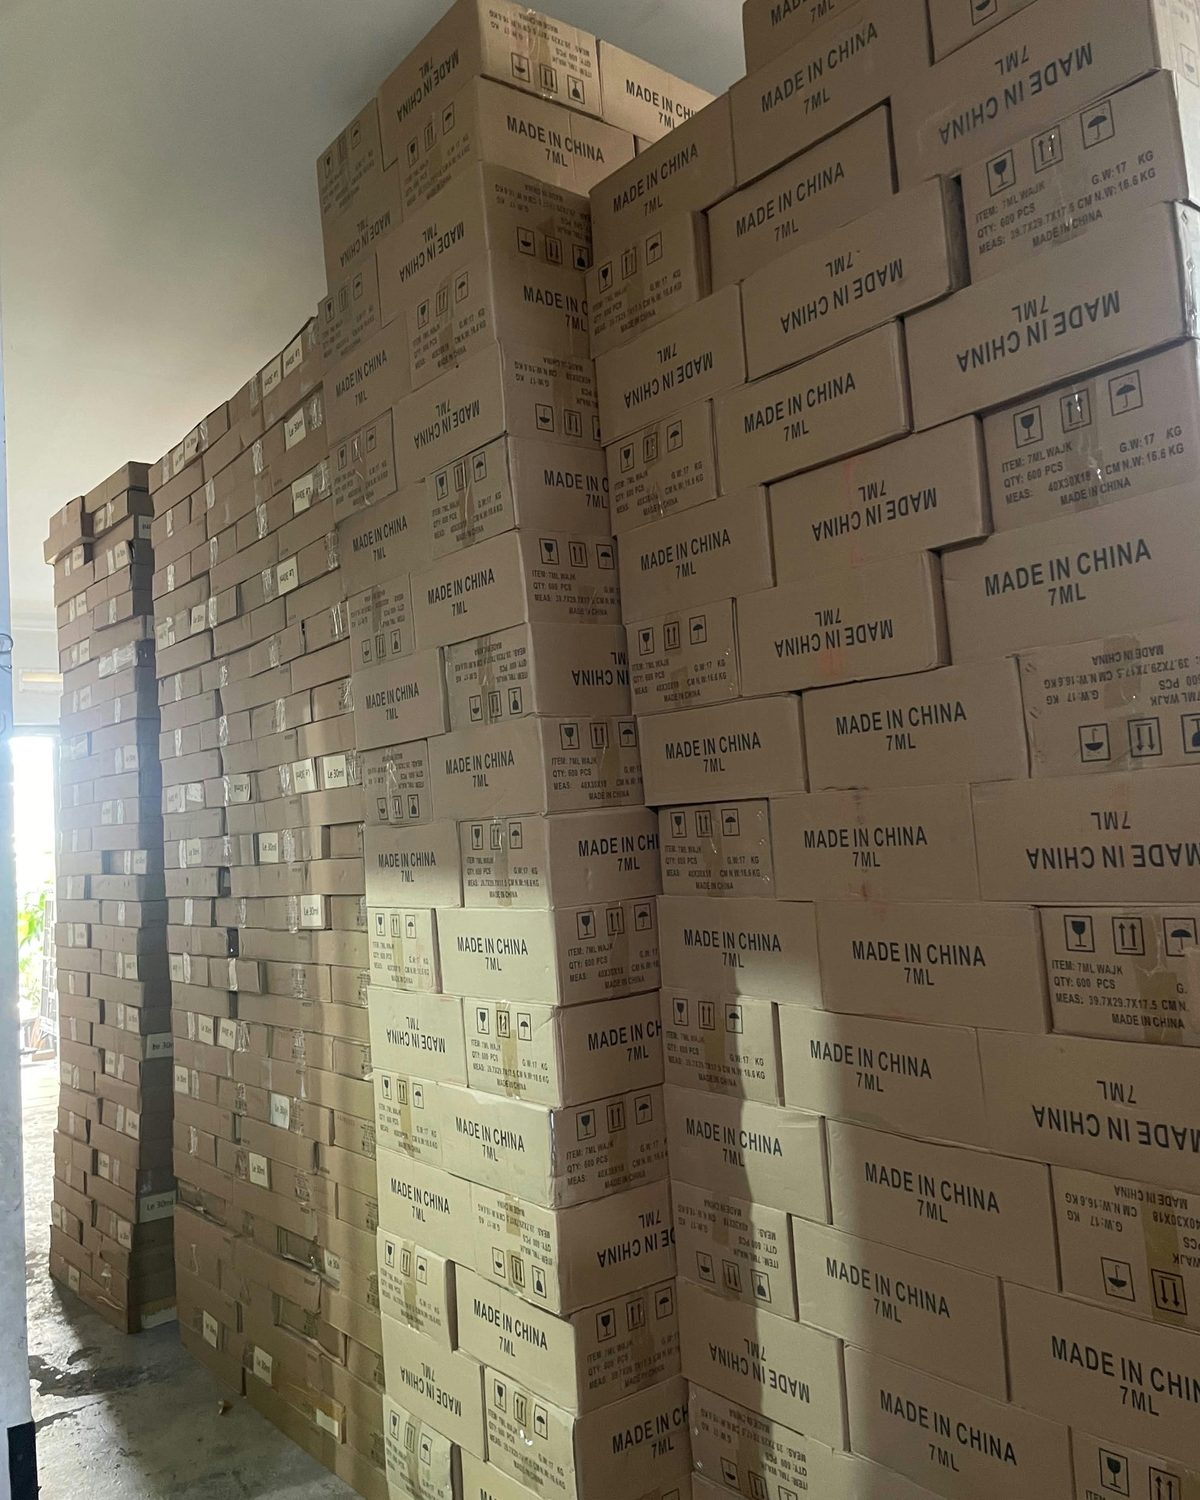
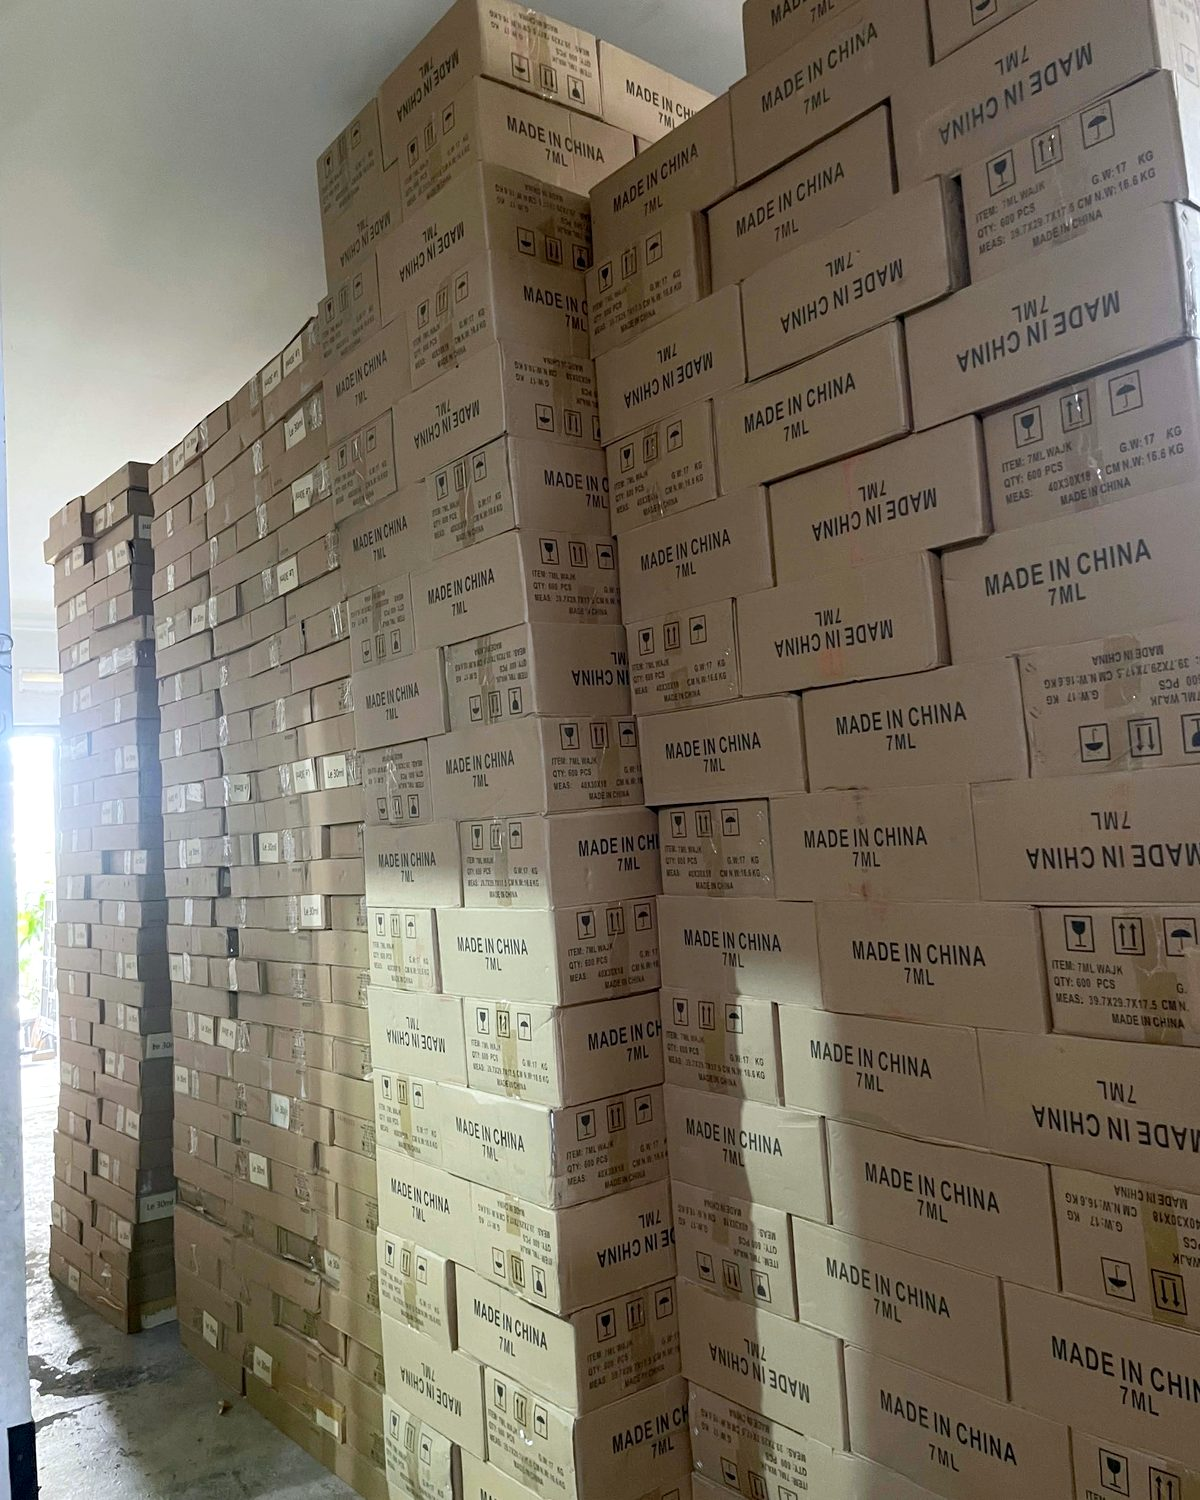
Warehouse photos: natural colour, shown inside 'Why Gita'
Re-colour the warehouse photos in the files (white balance, lifted shadows)
and drop the cream wash on them. Home: a row of three photos under the
'Why Gita' points instead of a separate arched section. About: simpler
natural-colour gallery.

Claude-Session: https://claude.ai/code/session_01LZnenZtF91Tws1DbC4RaA7

diff --git a/components/Warehouse.tsx b/components/Warehouse.tsx
@@ -1,5 +1,4 @@
 import Image from "next/image";
-import Link from "next/link";
 import { captionFromFile, facilityPhotos } from "@/lib/images";
 import { site, waLink } from "@/lib/site";
 
@@ -17,44 +16,49 @@ const altFor = (src: string) => {
 const askStock = "Hello Gita, I'd like to check stock for a bottle model.";
 
 /**
- * Warehouse / ready-stock photos from /public/images/facility.
- * "home": a split teaser, mirrored from the showroom one (copy left, photos right on desktop).
- * "about": a captioned photo gallery. Renders nothing when the folder is empty.
+ * Warehouse / ready-stock photos from /public/images/facility, shown in natural colour
+ * (the files are colour-corrected; no cream wash). Renders nothing when the folder is empty.
+ * "band":  full-width photo strip with a short heading (own section, home page).
+ * "strip": just a row of photos, to drop inside another section (e.g. Why Gita).
+ * "about": captioned gallery on the About page.
+ * tone="bronze" gives a warm monochrome look instead of natural colour.
  */
-export default function Warehouse({ variant }: { variant: "home" | "about" }) {
+export default function Warehouse({ variant, tone = "natural" }: { variant: "band" | "strip" | "about"; tone?: "natural" | "bronze" }) {
   const photos = facilityPhotos();
   if (photos.length === 0) return null;
+  const toneCls = tone === "bronze" ? " wh-bronze" : "";
 
-  if (variant === "home") {
-    const [main, , inset = photos[1]] = photos;
+  if (variant === "strip") {
     return (
-      <section className="section" aria-labelledby="stock-h">
-        <div className="container showroom-split flip">
-          <div className={`showroom-stack${inset ? "" : " single"}`}>
-            <div className="showroom-main"><Image src={main} alt={altFor(main)} fill sizes="(max-width: 860px) 70vw, 420px" /></div>
-            {inset && (
-              <div className="showroom-inset"><Image src={inset} alt={altFor(inset)} fill sizes="(max-width: 860px) 40vw, 240px" /></div>
-            )}
-          </div>
+      <div className={`wh-strip${toneCls}`}>
+        {photos.slice(0, 3).map((src) => (
+          <div key={src} className="wh-img"><Image src={src} alt={altFor(src)} fill sizes="(max-width: 640px) 50vw, 380px" /></div>
+        ))}
+      </div>
+    );
+  }
+
+  if (variant === "band") {
+    return (
+      <section className={`wh-band-section${toneCls}`} aria-labelledby="stock-h">
+        <div className="container wh-band-head">
           <div>
             <p className="eyebrow">Ready stock</p>
-            <h2 id="stock-h">Thousands of bottles, <em>ready to ship</em></h2>
-            <p className="lead">
-              Our {site.address.city} warehouse keeps popular bottles, sprayers and caps boxed and on the shelf, so most
-              orders are packed within 1–3 working days. Order a single piece or full cartons.
-            </p>
-            <div className="cta-row">
-              <Link href="/catalog" className="btn">Browse the catalog</Link>
-              <a href={waLink(askStock)} className="btn btn-ghost" target="_blank" rel="noopener">Check stock</a>
-            </div>
+            <h2 id="stock-h">Thousands of bottles in our {site.address.city} warehouse</h2>
           </div>
+          <a href={waLink(askStock)} className="link-arrow" target="_blank" rel="noopener">Check stock</a>
+        </div>
+        <div className="wh-band">
+          {photos.slice(0, 3).map((src) => (
+            <div key={src} className="wh-img"><Image src={src} alt={altFor(src)} fill sizes="(max-width: 640px) 100vw, 34vw" /></div>
+          ))}
         </div>
       </section>
     );
   }
 
   return (
-    <section id="warehouse" className="section" aria-labelledby="stock-h">
+    <section id="warehouse" className={`section${toneCls}`} aria-labelledby="stock-h">
       <div className="container">
         <div className="section-head">
           <div>
@@ -67,10 +71,10 @@ export default function Warehouse({ variant }: { variant: "home" | "about" }) {
           Thousands of cartons of perfume bottles, sprayers and caps are stored in our own warehouse, ready to pack and
           ship anywhere in Indonesia, or to pick up in person.
         </p>
-        <div className="showroom-gallery warehouse-gallery">
+        <div className="wh-gallery">
           {photos.map((src) => (
-            <figure key={src} className="showroom-figure">
-              <div className="showroom-img"><Image src={src} alt={altFor(src)} fill sizes="(max-width: 640px) 100vw, (max-width: 1180px) 33vw, 380px" /></div>
+            <figure key={src} className="wh-figure">
+              <div className="wh-img"><Image src={src} alt={altFor(src)} fill sizes="(max-width: 640px) 100vw, (max-width: 1180px) 33vw, 380px" /></div>
               <figcaption>{captionFromFile(src)}</figcaption>
             </figure>
           ))}

diff --git a/app/globals.css b/app/globals.css
@@ -302,13 +302,22 @@ a.contact-card:hover { border-color: var(--gold-2); }
   content: ""; position: absolute; inset: 0; background: var(--photo-wash);
   mix-blend-mode: multiply; opacity: var(--photo-wash-strength); pointer-events: none; z-index: 1;
 }
-/* Warehouse (ready stock): same arched stack, mirrored so it doesn't echo the showroom section */
-.showroom-split.flip { grid-template-columns: 1.05fr .95fr; }
-.showroom-split.flip > .showroom-stack { order: 2; padding: 0 0 14% 18%; }
-.showroom-split.flip > .showroom-stack.single { padding: 0; }
-.showroom-split.flip .showroom-inset { right: auto; left: 0; border-color: var(--bg); }
+/* Warehouse (ready stock): natural colour, colour-corrected in the files themselves */
+.wh-img { position: relative; overflow: hidden; border-radius: var(--radius); background: var(--tint); }
+.wh-img img { object-fit: cover; }
+.wh-bronze .wh-img img { filter: grayscale(1) sepia(.55) contrast(1.05) brightness(1.04); }
 #warehouse { scroll-margin-top: 72px; }
-.warehouse-gallery { grid-template-columns: repeat(3, 1fr); }
+.wh-gallery { display: grid; grid-template-columns: repeat(3, 1fr); gap: 20px; margin-top: 28px; }
+.wh-figure { margin: 0; }
+.wh-figure .wh-img { aspect-ratio: 4 / 5; }
+.wh-figure figcaption { margin-top: 10px; font: 600 1.2rem var(--serif); }
+.wh-strip { display: grid; grid-template-columns: repeat(3, 1fr); gap: 16px; margin-top: 40px; }
+.wh-strip .wh-img { aspect-ratio: 3 / 2; }
+.wh-band-section { padding: clamp(56px, 8vw, 96px) 0 0; }
+.wh-band-head { display: flex; justify-content: space-between; align-items: end; gap: 24px; margin-bottom: 28px; }
+.wh-band-head h2 { margin-bottom: 0; }
+.wh-band { display: grid; grid-template-columns: 1.2fr 1fr 1fr; gap: 6px; height: clamp(260px, 32vw, 440px); }
+.wh-band .wh-img { border-radius: 0; height: 100%; }
 
 /* ---------- Responsive ---------- */
 @media (max-width: 1024px) {
@@ -330,9 +339,8 @@ a.contact-card:hover { border-color: var(--gold-2); }
   .quote-grid { grid-template-columns: 1fr; }
   .timeline, .gallery { grid-template-columns: repeat(2, 1fr); }
   .usp-grid.usp-3 { grid-template-columns: 1fr; }
-  .showroom-split, .showroom-split.flip { grid-template-columns: 1fr; }
+  .showroom-split { grid-template-columns: 1fr; }
   .showroom-stack { max-width: 400px; }
-  .showroom-split.flip > .showroom-stack { order: 0; }
 }
 @media (max-width: 640px) {
   body { font-size: 16px; }
@@ -358,8 +366,16 @@ a.contact-card:hover { border-color: var(--gold-2); }
   .footer-grid { grid-template-columns: 1fr; }
   .wa-fab { width: 52px; height: 52px; right: 14px; bottom: 14px; }
   .showroom-gallery { gap: 12px; }
-  .warehouse-gallery { grid-template-columns: repeat(2, 1fr); }
-  .warehouse-gallery .showroom-figure:first-child { grid-column: 1 / -1; }
+  .wh-gallery { grid-template-columns: repeat(2, 1fr); gap: 12px; }
+  .wh-gallery .wh-figure:first-child { grid-column: 1 / -1; }
+  .wh-gallery .wh-figure:first-child .wh-img { aspect-ratio: 4 / 3; }
+  .wh-figure figcaption { font-size: 1.05rem; }
+  .wh-strip { grid-template-columns: repeat(2, 1fr); gap: 10px; }
+  .wh-strip .wh-img:first-child { grid-column: 1 / -1; }
+  .wh-band { grid-template-columns: 1fr 1fr; height: auto; }
+  .wh-band .wh-img:first-child { grid-column: 1 / -1; aspect-ratio: 16 / 10; }
+  .wh-band .wh-img { aspect-ratio: 1; height: auto; }
+  .wh-band-head { flex-direction: column; align-items: start; gap: 8px; }
   .showroom-figure figcaption { font-size: 1.05rem; }
 }
 @media (prefers-reduced-motion: reduce) {

diff --git a/app/page.tsx b/app/page.tsx
@@ -116,10 +116,9 @@ export default function Home() {
               </li>
             ))}
           </ul>
+          <Warehouse variant="strip" />
         </div>
       </section>
-
-      <Warehouse variant="home" />
 
       <section className="section" aria-labelledby="feat-h">
         <div className="container">
